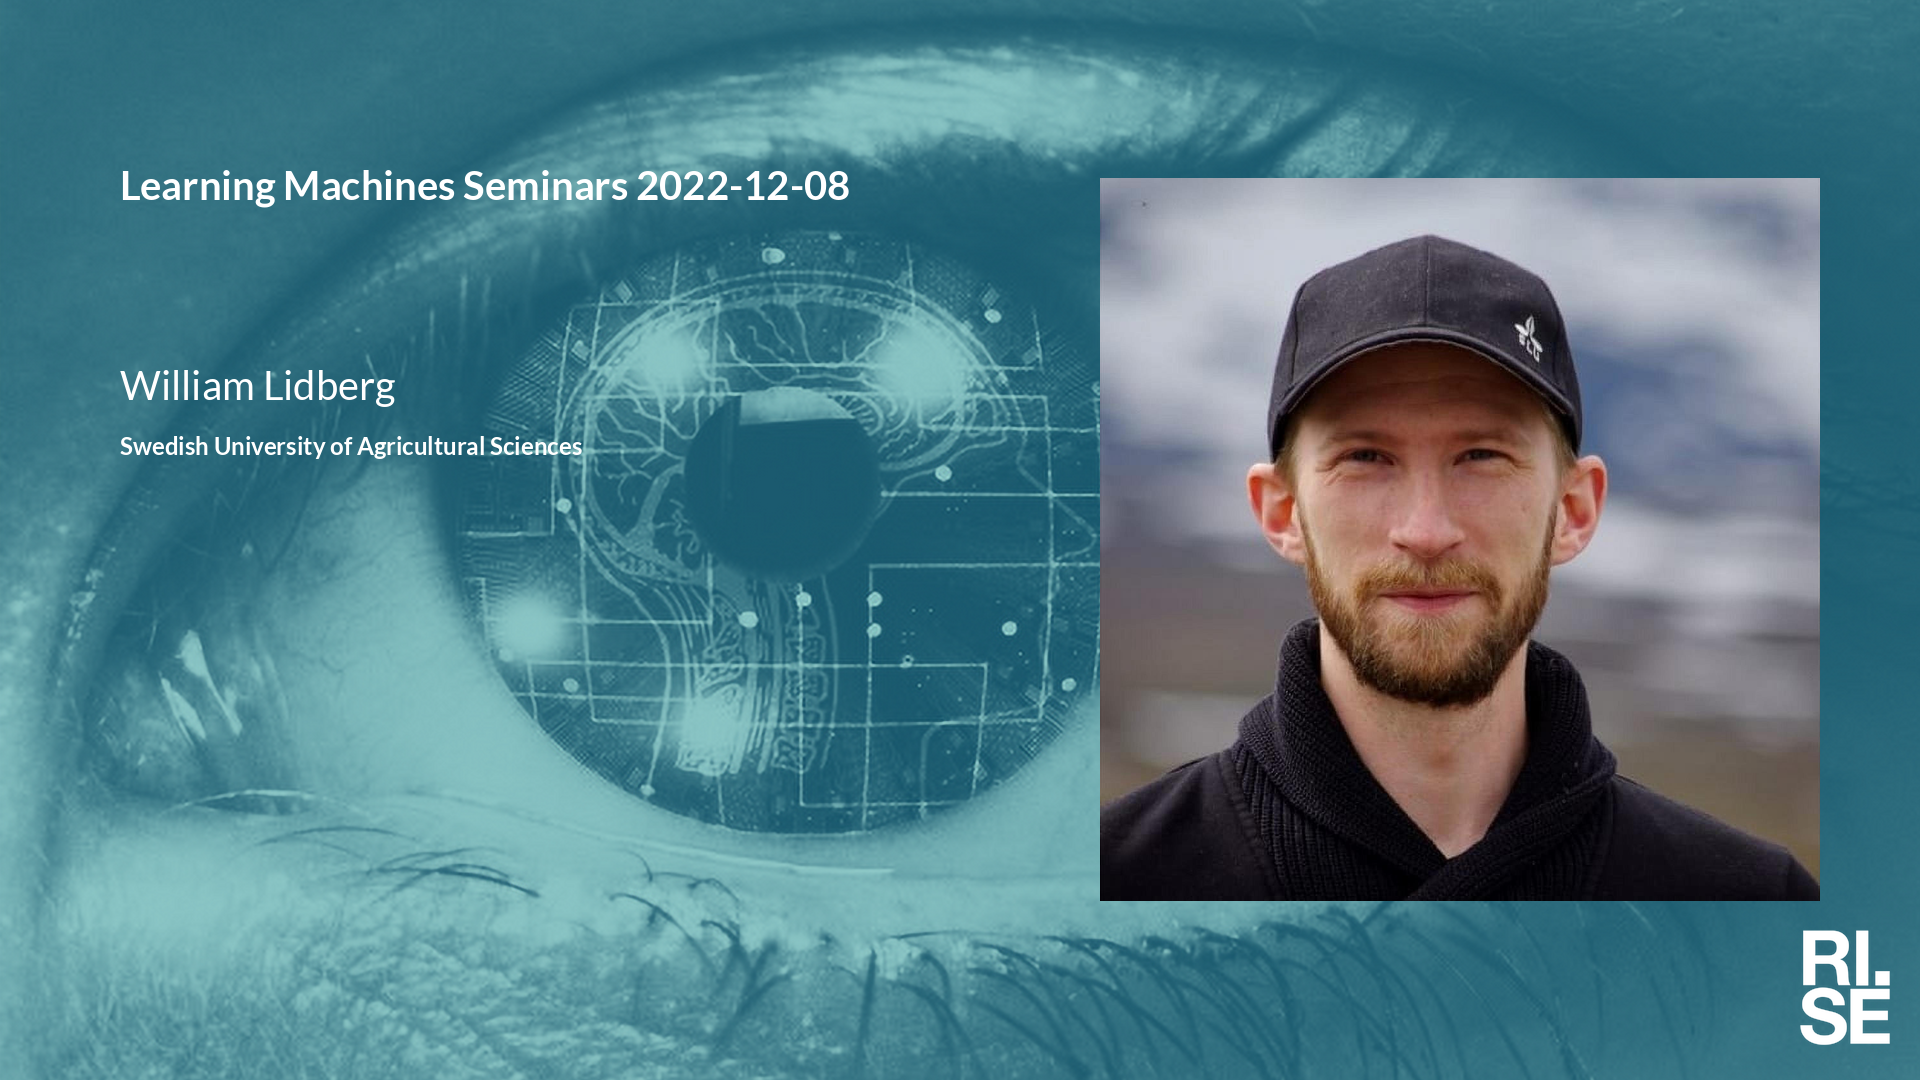
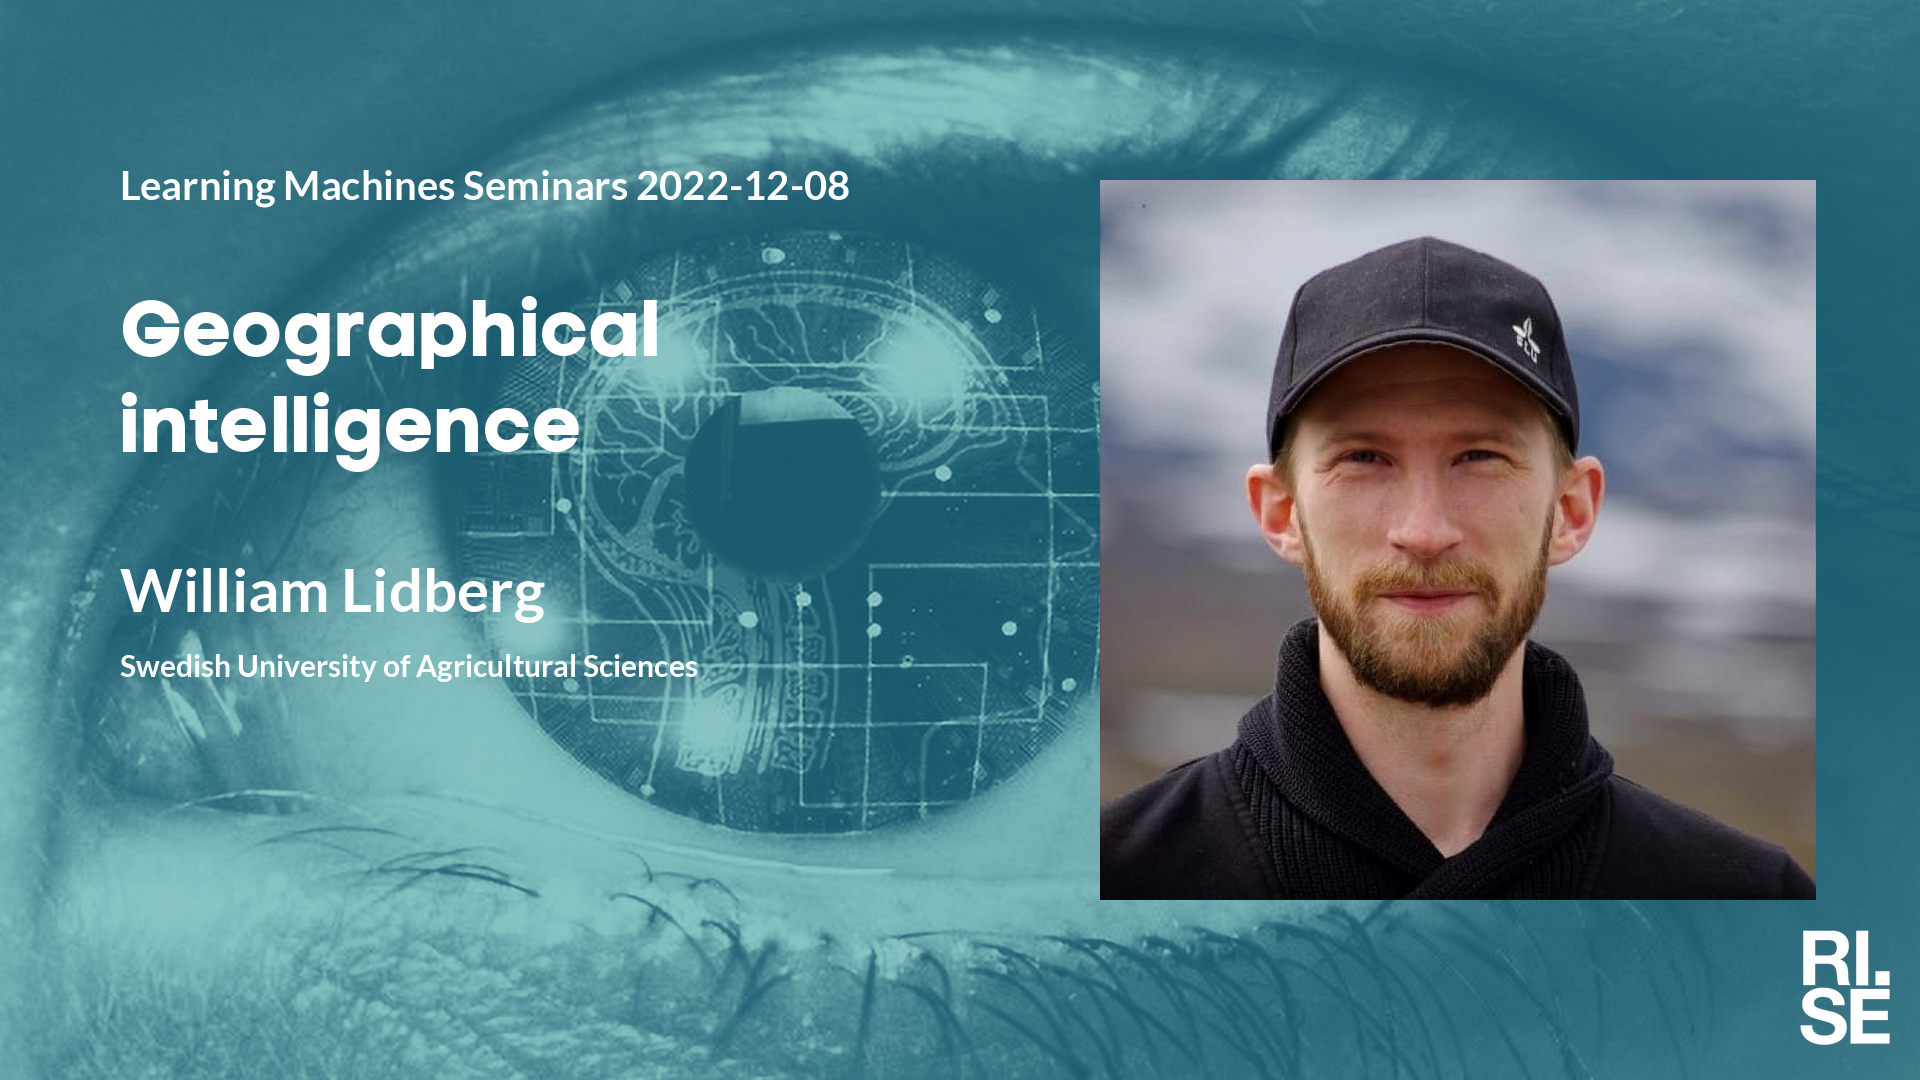
Updated plan on web site.

diff --git a/lm/2022-12-08.md b/lm/2022-12-08.md
@@ -1,12 +1,14 @@
 Welcome to this week's Learning Machines seminar.
 
-**Title:** 
+**Title:** Geographical intelligence
 
 **Speaker:** William Lidberg, Swedish University of Agricultural Sciences
 
-**Abstract:** 
+**Abstract:** Most of the Nordic countries are covered in forest and there is a long history of large-scale forestry in the region. The role of forests in society has become more critical with higher demands for energy, raw materials, and ecosystem services such as carbon storage, clean water, and recreation. In order to meet global sustainability goals and enable social change, there is a great need to plan land use with the environment in mind and take into account climate change and social values. One of the most important tools for successful sustainable forest management is correct and accurate maps as a basis for decision-making.
 
-**About the speaker:** 
+With satellite maps and Google Maps, it's easy to think we have all the maps we need. In fact, the Swedish terrain is poorly mapped. If you walk in the forest, it doesn't take long until you find a stream, a wetland, or cultural remains that are not marked on any maps. However, with the help of airborne laser scans, we can now peer through the canopy cover and get a clear view of the forest floor. My research focuses on using AI to map the forest landscape but I also ask questions about social and ethical challenges that come with the implementation of these maps. The Swedish system is built on trust in government agencies. What happens with that trust when management decisions are made based on AI-derived maps?
+
+**About the speaker:** William is an assistant professor in the department of forest ecology and sustainable management at the Swedish university of agricultural sciences. He is leading an interdisciplinary research group that combines soil science, hydrology, remote sensing, archaeology, and AI with social science to solve problems in forest management. William collaborates with multiple Swedish agencies to quickly take ideas from research to implementation on a national scale. 
 
 **Location:** This is an online seminar. Connect using Zoom.
 

diff --git a/lm/index.md b/lm/index.md
@@ -1,7 +1,7 @@
 <style type="text/css" scoped>
 td, th {border: 1px solid #ccc; padding: 0.6em;}
 table {border-collapse: collapse;}
-</style># Learning Machines Plan 2022-11-21
+</style># Learning Machines Plan 2022-11-22
 
 | date | speaker                                   | photo | shareable | meeting backdrop | youtube thumbnail | comment        |
 | ---- | ----------------------------------------- | ----- | ----- | ----- | ----- | -------------- |
